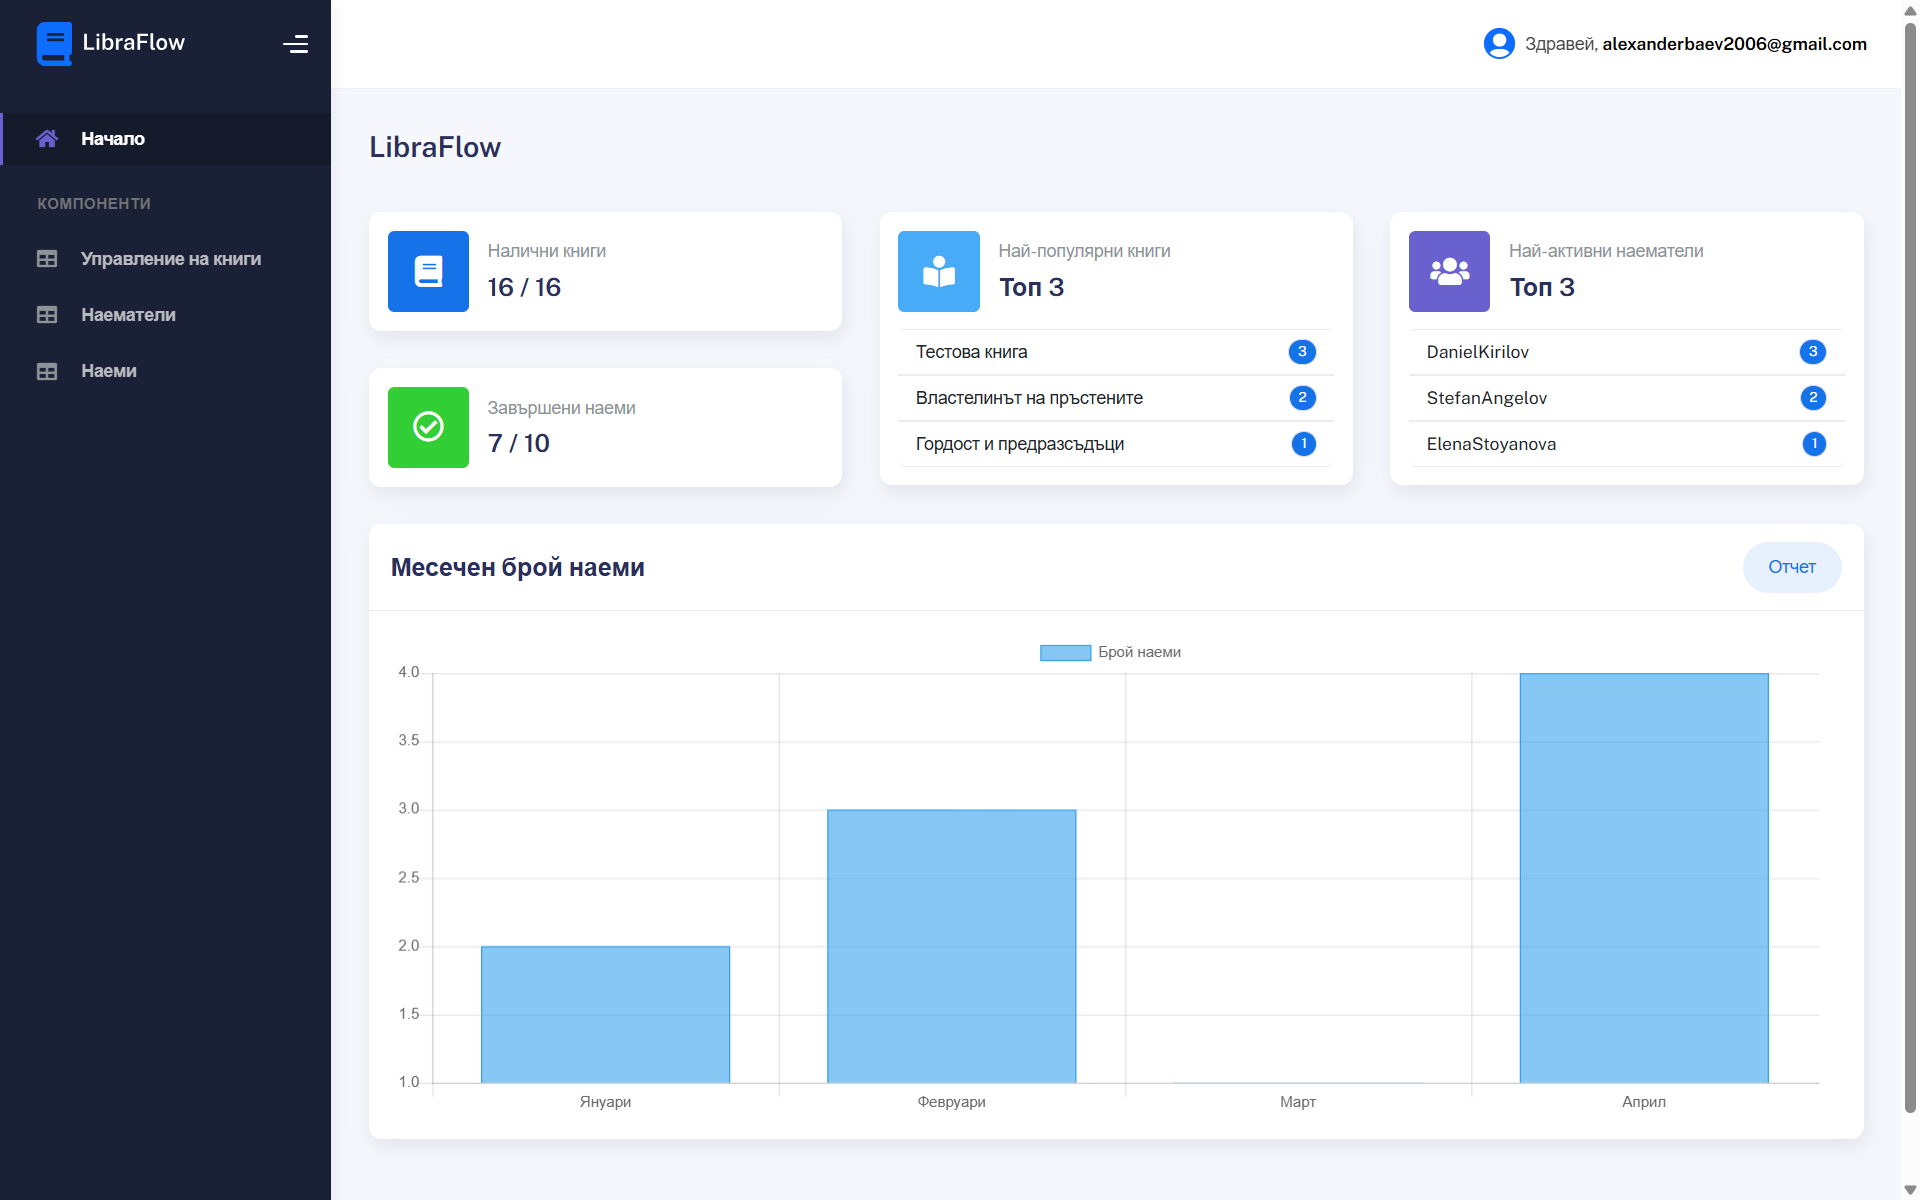
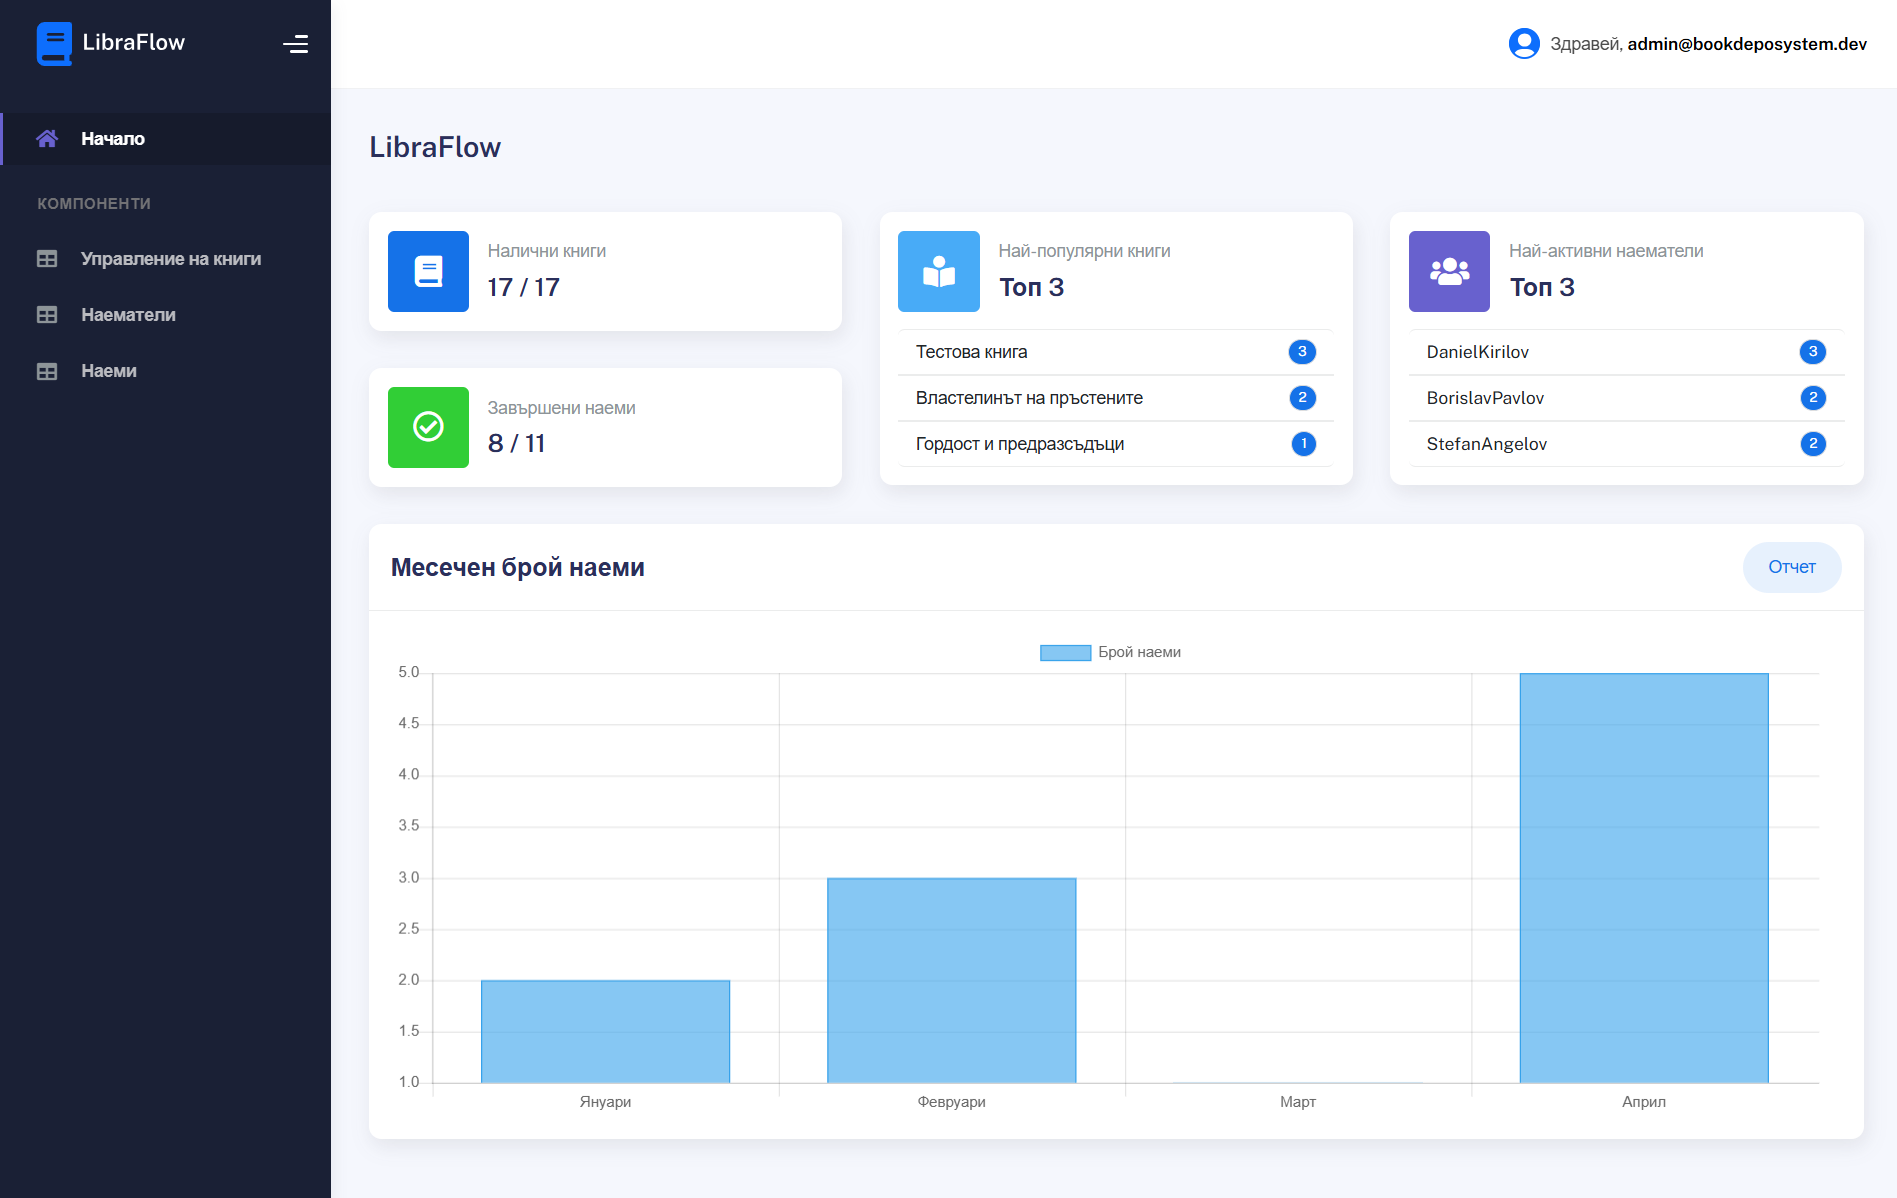
Minor changes

diff --git a/BookDepoSystem/BookDepoSystem.Presentation/Controllers/BookController.cs b/BookDepoSystem/BookDepoSystem.Presentation/Controllers/BookController.cs
@@ -298,74 +298,4 @@ public class BookController : Controller
 
         return this.View(model);
     }
-
-    [HttpGet("/books/biography")]
-    [Authorize(AuthenticationSchemes = CookieAuthenticationDefaults.AuthenticationScheme)]
-    [Authorize(DefaultPolicies.AdminPolicy)]
-    public async Task<IActionResult> BooksOfGenreBiography(string genre = "Биография", string ageRange = "", string sortBy = "", string search = "", int page = 1, int pageSize = 5)
-    {
-        if (page < 1)
-        {
-            return this.RedirectToAction(nameof(this.Books), new { page = 1, pageSize });
-        }
-
-        var (books, totalCount) = await this.bookService.GetBooksPaginated(genre, ageRange, sortBy, search, page, pageSize);
-        int totalPages = (int)Math.Ceiling(totalCount / (double)pageSize);
-
-        if (page > totalPages && totalPages > 0)
-        {
-            return this.RedirectToAction(nameof(this.Books), new { genre, ageRange, sortBy, search, page = totalPages, pageSize });
-        }
-
-        var viewModel = new PaginationViewModel<Book>
-        {
-            Items = books,
-            PageIndex = page,
-            TotalPages = (int)Math.Ceiling(totalCount / (double)pageSize),
-            TotalCount = totalCount,
-        };
-
-        this.ViewData["Genre"] = genre;
-        this.ViewData["AgeRange"] = ageRange;
-        this.ViewData["SortBy"] = sortBy;
-        this.ViewData["Search"] = search;
-        this.ViewData["PageSize"] = pageSize;
-
-        return this.View("Books", viewModel);
-    }
-
-    [HttpGet("/books/romance")]
-    [Authorize(AuthenticationSchemes = CookieAuthenticationDefaults.AuthenticationScheme)]
-    [Authorize(DefaultPolicies.AdminPolicy)]
-    public async Task<IActionResult> BooksOfGenreRomance(string genre = "Романтика", string ageRange = "", string sortBy = "", string search = "", int page = 1, int pageSize = 5)
-    {
-        if (page < 1)
-        {
-            return this.RedirectToAction(nameof(this.Books), new { page = 1, pageSize });
-        }
-
-        var (books, totalCount) = await this.bookService.GetBooksPaginated(genre, ageRange, sortBy, search, page, pageSize);
-        int totalPages = (int)Math.Ceiling(totalCount / (double)pageSize);
-
-        if (page > totalPages && totalPages > 0)
-        {
-            return this.RedirectToAction(nameof(this.Books), new { genre, ageRange, sortBy, search, page = totalPages, pageSize });
-        }
-
-        var viewModel = new PaginationViewModel<Book>
-        {
-            Items = books,
-            PageIndex = page,
-            TotalPages = (int)Math.Ceiling(totalCount / (double)pageSize),
-            TotalCount = totalCount,
-        };
-
-        this.ViewData["Genre"] = genre;
-        this.ViewData["AgeRange"] = ageRange;
-        this.ViewData["SortBy"] = sortBy;
-        this.ViewData["Search"] = search;
-        this.ViewData["PageSize"] = pageSize;
-
-        return this.View("Books", viewModel);
-    }
 }

diff --git a/README.md b/README.md
@@ -2,6 +2,8 @@
 
 Уеб приложение за управление на книгохранилище
 
+<img src="Documentation/landing-page.png" alt="Landing Page">
+
 ---
 
 ## 📝 Описание
